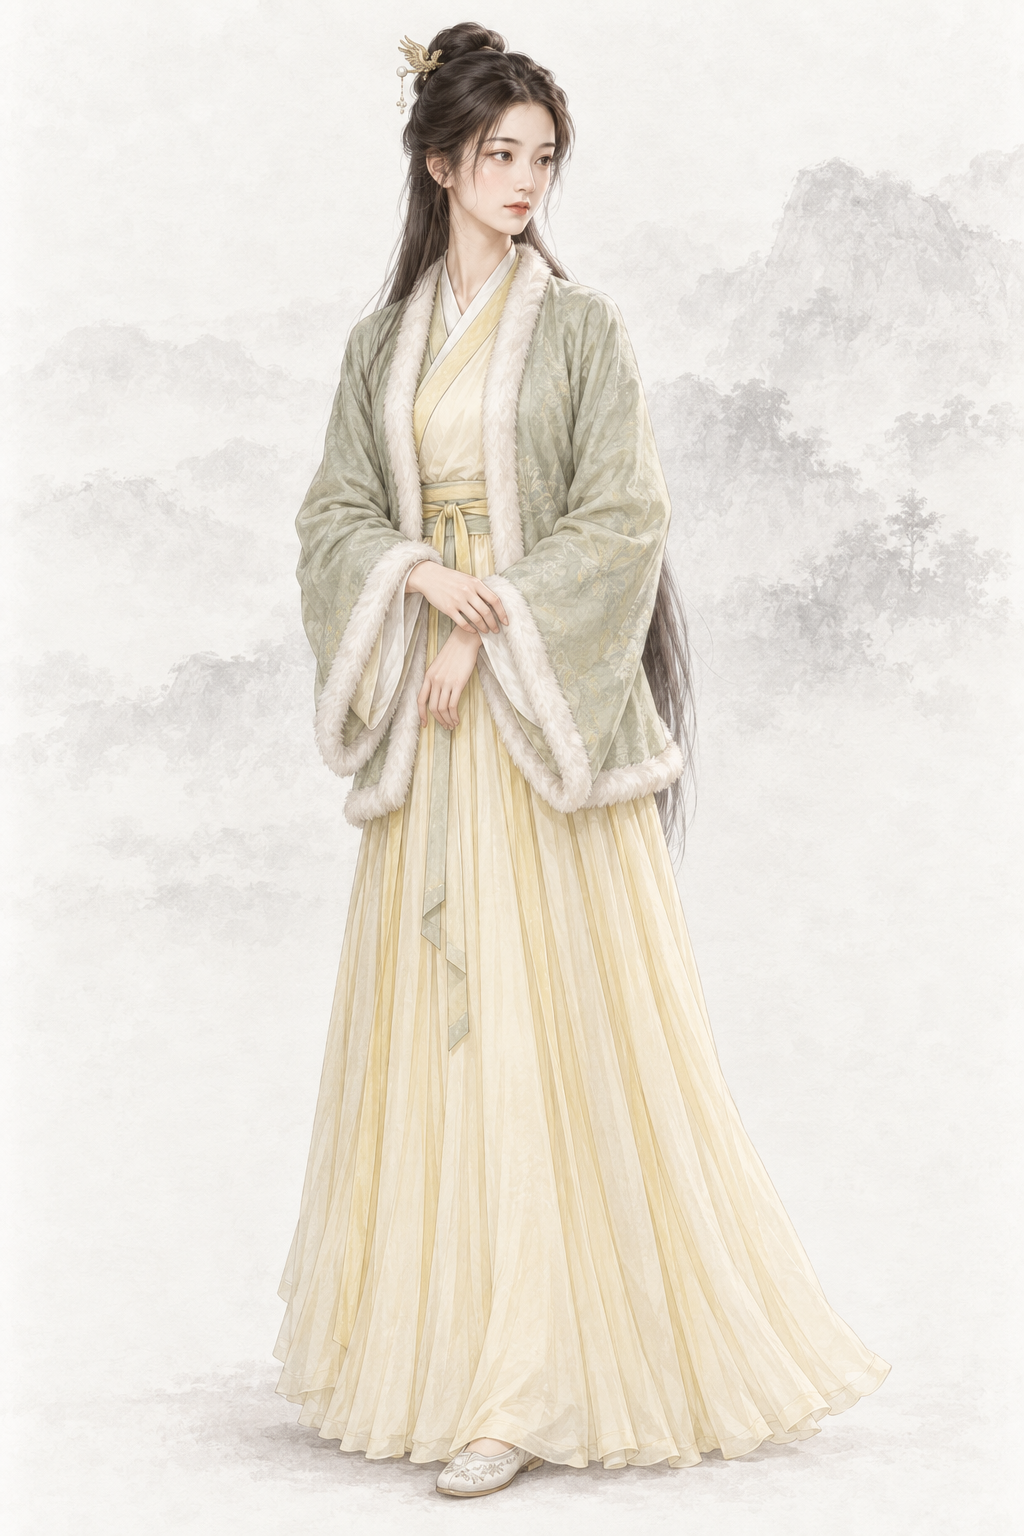
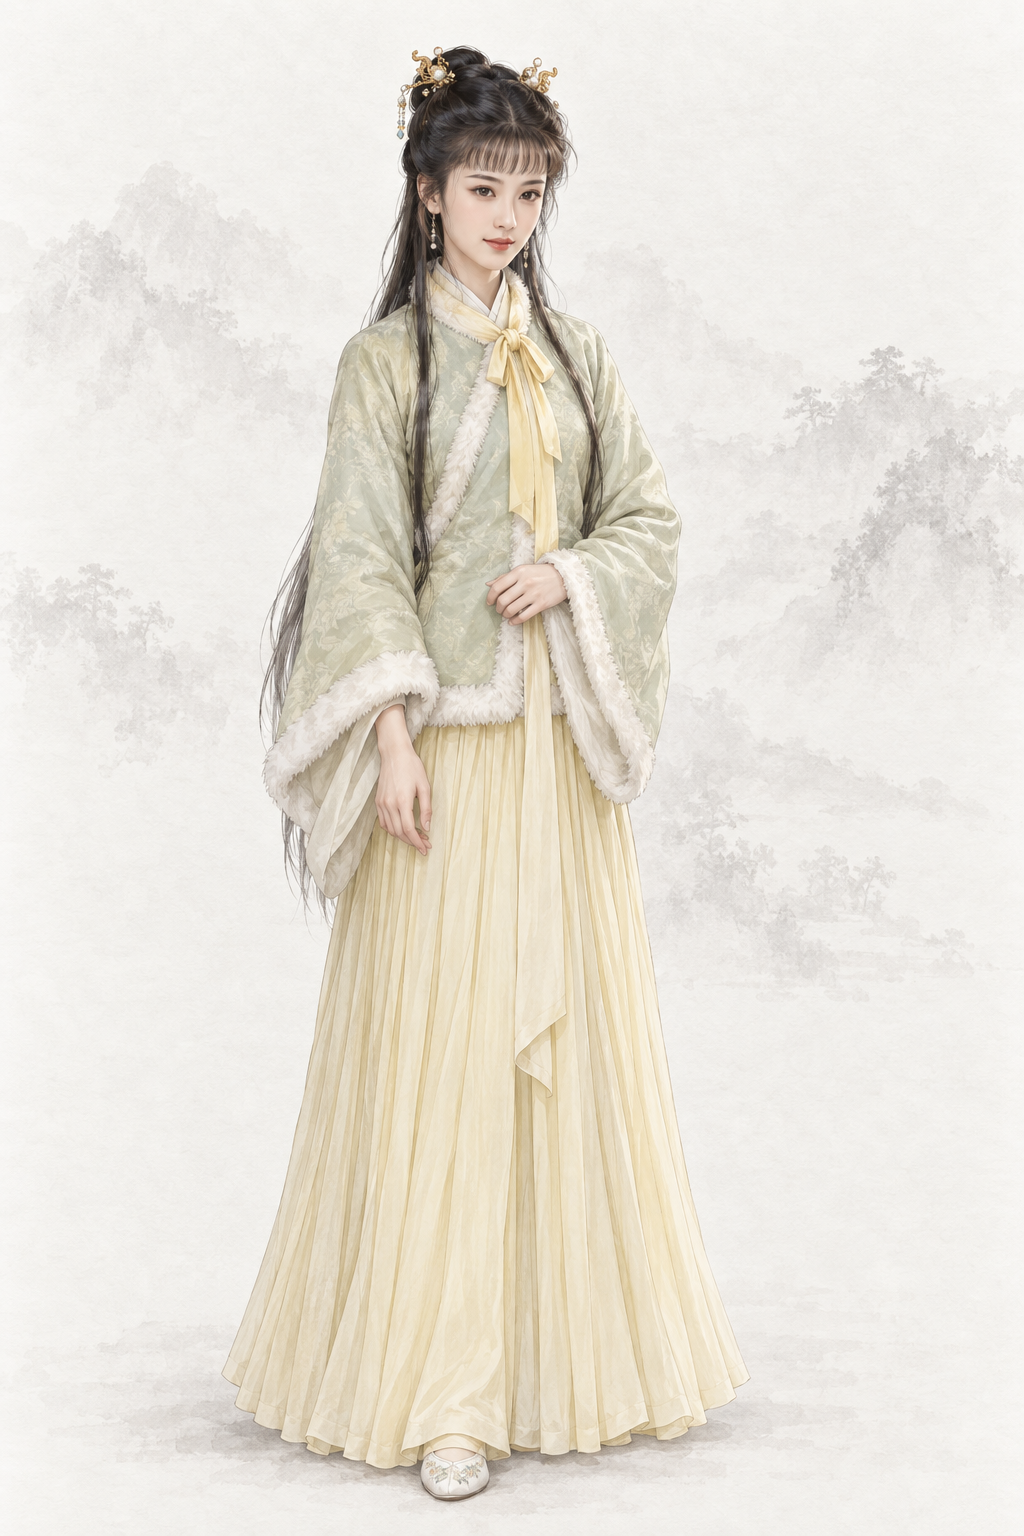
assets(character): por_npc_miaoruolan__ch14_youth_base 苗若兰（codex · AR-32 经典剧照重出）
1991 年台视《雪山飞狐》（含飞狐外传情节）剧照 2 张 + 基线；提示词写回「## Gemini 提示词」，上一版留作历史，frontmatter 加 classic_ref。
第 2 次出图：第 1 次脸偏通用美女模板、不像剧照，改写脸型描写后重出

diff --git a/assets/default/prompts/characters/ch14-xueshan/npc_miaoruolan.md b/assets/default/prompts/characters/ch14-xueshan/npc_miaoruolan.md
@@ -13,9 +13,18 @@ references:
     use: 当前状态 approved（当前工作区 manifest 已批准）；仅参考纸底、光线、笔触、设色，不沿用面容、体型、服饰或道具
 status: new
 redo_reason: "雪山女主尚无立绘，原设计「十六七岁少女、6–6.5 头身」违反禁止幼态；按原著「肤光胜雪、淡绿皮袄鹅黄百褶裙、眉间书卷清气」补出成年女子。"
-reference_upload:
-- assets/default/baseline/character/female/ref_npc_wangyuyan__ch01_base01.png
 codex_prompt_rev: 2026-10-02
+classic_ref:
+  version: "1991 年台视《雪山飞狐》（含飞狐外传情节）"
+  stills:
+  - ".agents/coord/imagegen-reference/identity-20261001/xueshan/miaoruolan-1991-wangluyao/miaoruolan_1991_wangluyao_sina2023_1.jpg"
+  - ".agents/coord/imagegen-reference/identity-20261001/xueshan/miaoruolan-1991-wangluyao/miaoruolan_1991_wangluyao_sina2023_2.jpg"
+  note: "剧照缩到长边 1024 的 JPEG 上传，放在两张同性别基线之前（AR-32）；miaoruolan_1991_wangluyao_sina2023_1.jpg 裁切框 (0.1, 0.0, 0.9, 0.9)；miaoruolan_1991_wangluyao_sina2023_2.jpg 裁切框 (0.0, 0.0, 0.85, 0.9)"
+reference_upload:
+- .agents/coord/imagegen-reference/identity-20261001/xueshan/miaoruolan-1991-wangluyao/miaoruolan_1991_wangluyao_sina2023_1.jpg
+- .agents/coord/imagegen-reference/identity-20261001/xueshan/miaoruolan-1991-wangluyao/miaoruolan_1991_wangluyao_sina2023_2.jpg
+- assets/default/baseline/character/female/ref_npc_wangyuyan__ch01_base01.png
+- assets/default/baseline/character/female/ref_npc_xiaolongnv__ch03_base01.png
 ---
 
 <!-- full-coverage-import:current-policy:v1 -->
@@ -28,6 +37,26 @@ codex_prompt_rev: 2026-10-02
 # 苗若兰 · 《雪山飞狐》（ch14）
 
 ## Gemini 提示词
+
+> 2026-10-02 AR-32 经典剧照重出（6 号出图员，codex exec · image_gen 出图）：上传该角色经典影视版剧照 2 张（1991 年台视《雪山飞狐》（含飞狐外传情节）：miaoruolan_1991_wangluyao_sina2023_1.jpg、miaoruolan_1991_wangluyao_sina2023_2.jpg）在前、两张同性别基线在后。剧照只借鉴发型、服饰、配色、标志道具、气质与面部特征，重新绘制成项目画风，不照搬照片的构图、光影和姿势；人物一律成年。提示词里不写演员名。上一版提示词保留在下一节作历史。
+
+```text
+生成一张 2:3 竖幅全身人物立绘：单人、单一视角、完整全身——头顶、双手、双脚和手中器物的两端都在画面内，四周留出自然空白；人物站姿自然，身体基本朝向正面，头部端正（不歪头、不仰不俯），镜头平视。
+【参考图】随提示词上传 4 张参考图。第 1–2 张参考图是该角色经典影视造型的剧照：借鉴其发型、服饰、配色、标志道具、气质和面部特征，让人一眼认出是这个角色；但必须重新绘制成项目画风，不要照片质感，不要照搬剧照的构图、光影、背景和姿势，也不要做成照片修图。剧照与下文文字不一致的地方（年龄、所处阶段、帽饰与衣装细节、手中器物），以下文文字为准；画中人一律是成年人。最后两张是本项目画风基线：画风、用色、光线、质感和暖浅灰纸底加淡水墨背景以它们为准。
+【画风】写实手绘古风人物插画，与本项目写实武侠角色立绘同一画风，像功力深厚的画师用细腻笔触画出的真实美人。手绘插画质感，不是 CG 渲染：不要过度光滑的皮肤、完美对称的五官、塑料高光、过度锐利的发丝；保留自然的笔触和细微不完美。肌肤细腻自然，看得见极细的肤理和自然的左右不对称，不磨皮、不油亮、不打粉；头发是一缕缕自然的发丝和少量碎发；布料看得出经纬纹理、厚薄和自然垂坠的褶皱，干净完整；整体设色低饱和、雅致；柔和的自然光从左上方照来，明暗过渡自然，不打舞台光、轮廓光或美颜柔光。不是照片，不是三维渲染，不是动漫或游戏 CG，也不是油画（没有厚涂笔触和画布纹理）。
+【背景】不透明的暖浅灰色纸底，只在远处有极淡的水墨远山和薄雾，大面积留白；人物与背景明暗分明、轮廓边缘干净完整（后续要自动抠图），水墨和纸纹只在背景里，不侵入人物和衣服；脚下只有很淡的一点接触阴影。
+【人物】苗若兰，金庸《雪山飞狐》的女主角，苗人凤与南兰的独生女，琴棋书画皆通，在玉笔山庄听众人讲述旧事、与胡斐相遇的时候。
+【年龄与体态】约二十二岁的成年女子，面部轮廓已是成熟女子，体态纤细修长、端正，约七头身，成年女性比例。
+【经典造型】要一眼认出是苗若兰——淡绿皮袄镶白毛边、鹅黄百褶长裙、凤头珠钗，肤光胜雪、眉间书卷清气，温雅端庄；清丽绝俗的美人。
+【面容】脸以剧照为底子——保留剧照里这个角色的脸型、眉眼、鼻唇的比例关系和神气，画成成年人；照两张剧照里的脸：两颊饱满、下巴圆润的鹅蛋脸，浓而弯的眉毛，眼睛含笑、不刻意放大；眉毛细长舒展，眉间隐然有一股书卷清气；一双眼睛清澈沉静，眼窝略深、鼻梁高直，带一点父亲苗人凤的轮廓；唇形端正；肤光胜雪，微带红晕。温雅端庄、不卑不亢。和母亲南兰有几分相像，但没有那种含愁的怯意，更沉静大方。
+【发式】乌黑的长发半绾，额前一层细碎的薄刘海，头顶挽一个小髻，两侧各插一支小巧的金色凤头珠钗，其余长发垂到背后。
+【服饰】淡绿色皮袄（领口和袖口镶一圈白色毛边，领口系一条鹅黄色丝巾结），下着鹅黄色百褶长裙，暖白色平底鞋；交领右衽（穿着者左襟压右襟）。
+【道具与姿态】不拿兵器；一手轻拢另一侧的袖口。安静站立，略侧身像在聆听，温雅而有主见。
+【不要】画面里不要任何文字、题款、印章、签名、水印、台标、边框、分格或多视图；不要第二个人；不要幼态（童颜、娃娃脸、婴儿肥、儿童或少年身材、大头小身）；不要塑料感皮肤、磨皮美颜、网红脸（尖下巴大眼高鼻的模板脸）、过度对称、浓妆、偶像式打光、蜡像感；不要照片质感、三维渲染或动漫大眼；不要歪头、斜镜头；不要多指、缺指（设定的伤残除外）、手与器物粘连或悬空；汉式交领必须右衽（穿着者的左襟压在右襟上），不要左衽（设定为少数民族服制的除外），不要水平镜像；不要现代物品、日式服饰或日本刀、发光特效、法阵或能量光。不要照片或照片修图的质感，不要照搬剧照的构图、光影、背景和姿势，不要剧照里的字幕、台标和水印。不要浓妆、性感化或暴露的衣着；不要十六七岁的少女脸、娃娃脸、儿童比例；不要网红脸；不要性感化；不要兵器；不要和南兰同一张脸。不要尖下巴、大眼睛的洋娃娃脸或少女偶像脸。
+【画风基线】随提示词上传的参考图里，最后两张是本项目的立绘画风基线：只参考它们的画风、用色、光线、质感和暖浅灰纸底加淡水墨的背景处理，整体画风必须与它们一致——精细写实的数字手绘插画，不是油画，不要厚涂笔触和画布纹理。基线图只取画风，不取长相：不要照搬基线图里人物的长相、年龄、发型、服饰和姿势。
+```
+
+## 上一版 Gemini 提示词（2026-10-02 文字版；AR-32 经典剧照重出前，历史，不再用于出图）
 
 > 2026-10-02 Codex 人物线 2 号（AR-31）：在审核组稿上补一行「经典形象」（借鉴公认经典造型的发式、装束、配色、标志道具与气质，只写文字，不写演员名、不上传剧照），并补去 AI 化要求。本轮出图用下面第一个代码块；审核组原稿保留在其后的「审核组原稿」小节作历史。
 
